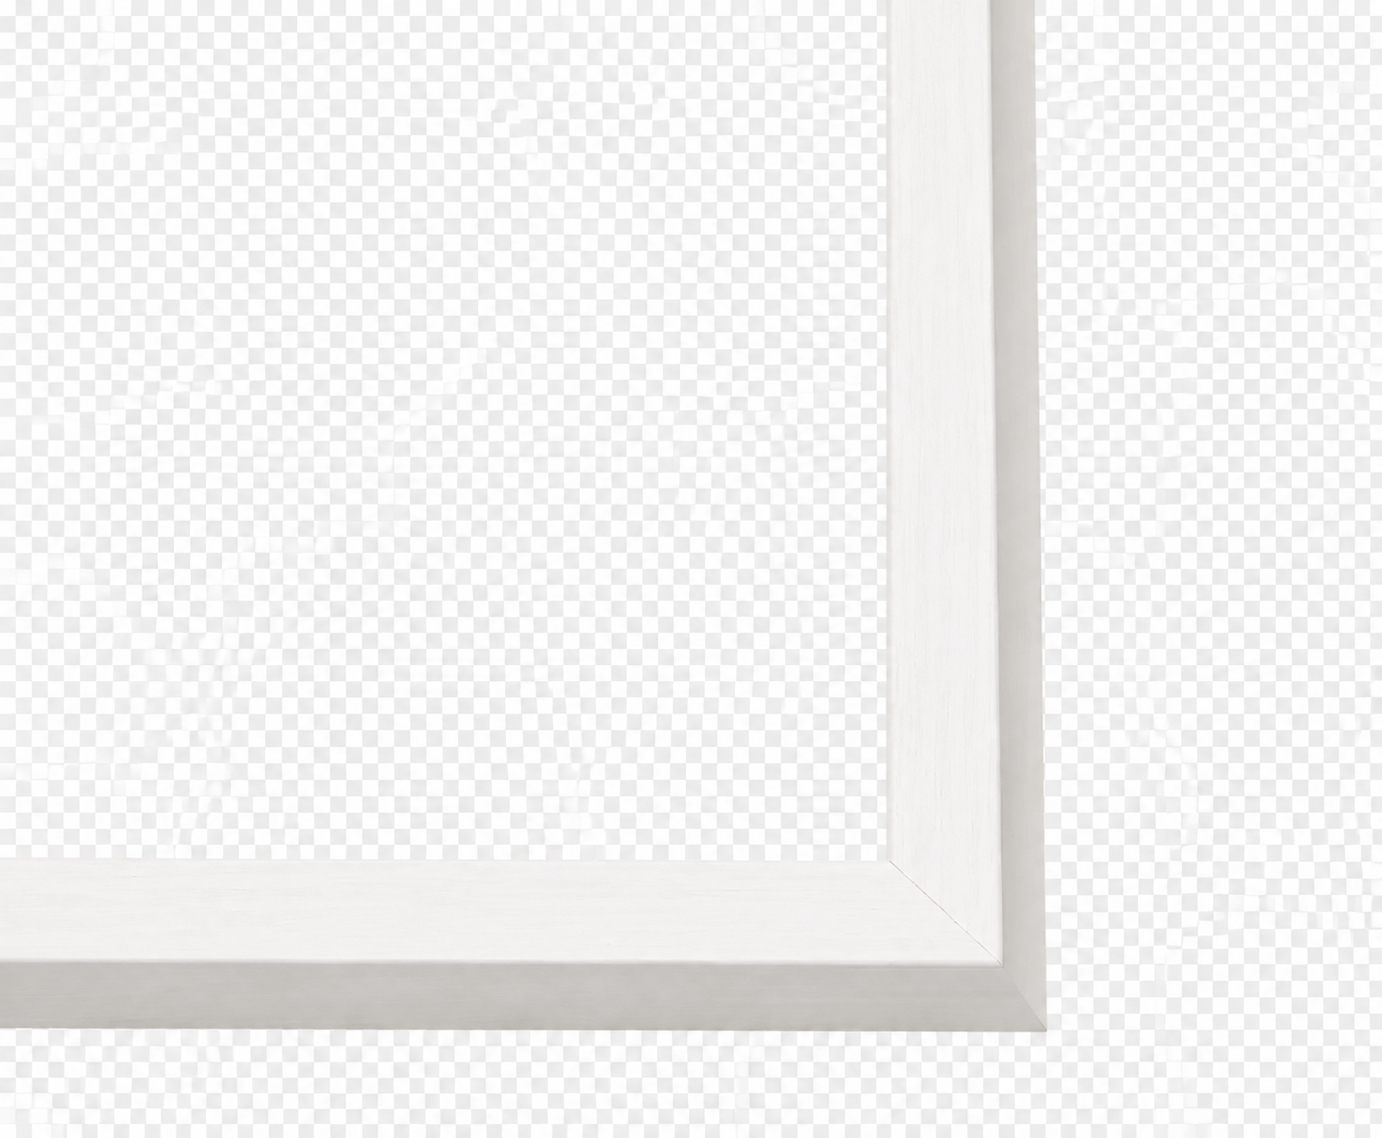
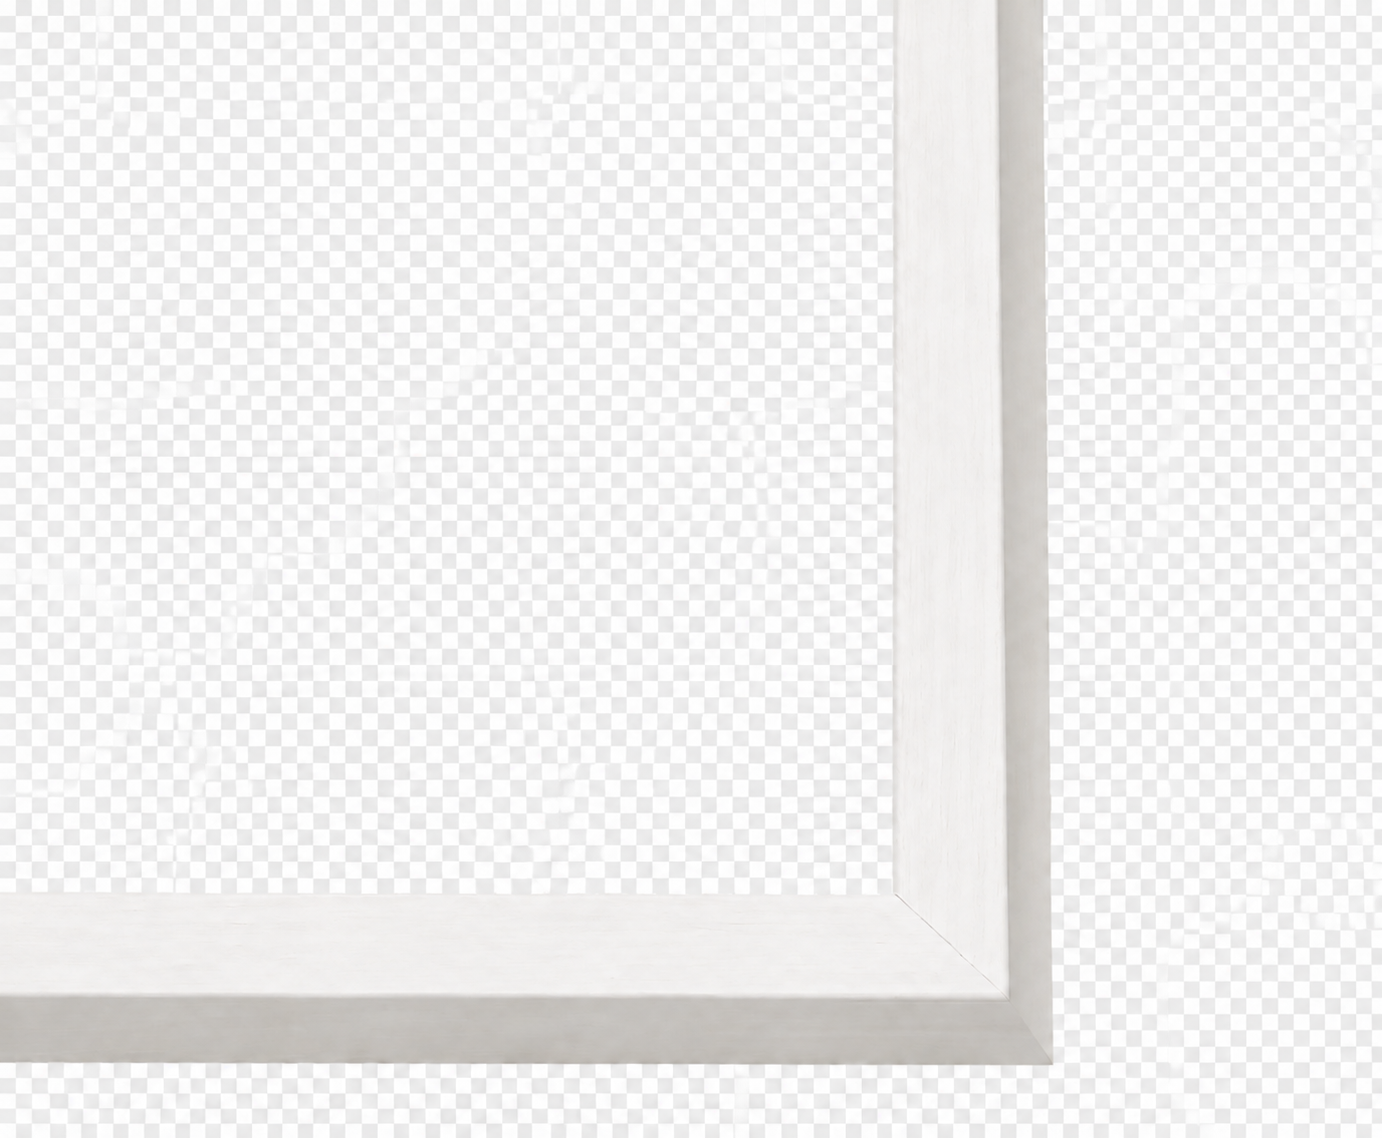
feat: tag badge:frame-included na produktach zestawu plakatow i ramek
Odroznia w sklepie produkty, gdzie rama FAKTYCZNIE jest w cenie
(kind: 'gallery-framed') od zwyklych plakatow/zestawow, ktore o ramie
milcza celowo (klient dobiera ja sam). Tag idzie tylko z tym jednym
kind — sprawdzone w eksporcie, ze nic innego go nie dostaje.

porownajTagiZeStrona.js rozszerzony o przestrzen "badge", zeby ten tag
byl widoczny w kontroli zgodnosci ze strona (dopoki headless front nie
zacznie go realnie czytac, wypadnie tam jako "wysylamy, strona nie
zna" — to oczekiwane, nie blad).

Changed region(s): [[0.0, 0.0, 0.7779, 0.9534]]

diff --git a/scripts/porownajTagiZeStrona.js b/scripts/porownajTagiZeStrona.js
@@ -44,7 +44,7 @@ for (const m of src.matchAll(/namespaced\("([a-z]+)",\s*"([a-z0-9-]+)"\)/g)) {
 
 const csv = fs.readFileSync(CSV, 'utf8');
 const wysylane = new Map();
-for (const m of csv.matchAll(/\b(category|style|aesthetic|room|color|occasion|collection|orientation|size|set|gallery-set|wall|framed-gallery-set|frame-color|frame-material):([a-z0-9-]+)/g)) {
+for (const m of csv.matchAll(/\b(category|style|aesthetic|room|color|occasion|collection|orientation|size|set|gallery-set|wall|framed-gallery-set|frame-color|frame-material|badge):([a-z0-9-]+)/g)) {
   const t = m[1] + ':' + m[2];
   wysylane.set(t, (wysylane.get(t) || 0) + 1);
 }

diff --git a/scripts/exportShopifyCsv.js b/scripts/exportShopifyCsv.js
@@ -952,6 +952,10 @@ async function main() {
     const tags = [
       'framed-gallery-set',
       'framed-gallery-set:pieces-' + sztuk,
+      // Jedyny kind, ktory smie to powiedziec — rama tu faktycznie jest w
+      // cenie. Zwykly plakat/zestaw plakatow milczy o ramie celowo (patrz
+      // src/galleryDescription.js), wiec ten tag NIE moze trafic tam.
+      'badge:frame-included',
       g.frameColor ? 'frame-color:' + slugifyTag(g.frameColor) : '',
       g.frameMaterial ? 'frame-material:' + slugifyTag(g.frameMaterial) : '',
       zbudujTagi(g, slugifyTag(g.category || ''), slugifyTag(g.artStyle || ''), sizeDefs),
